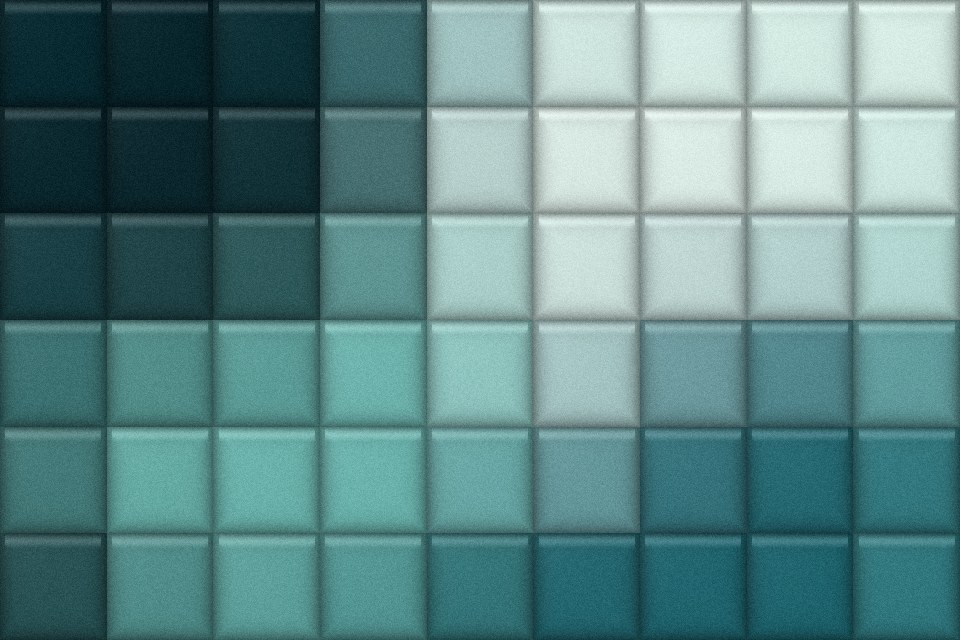
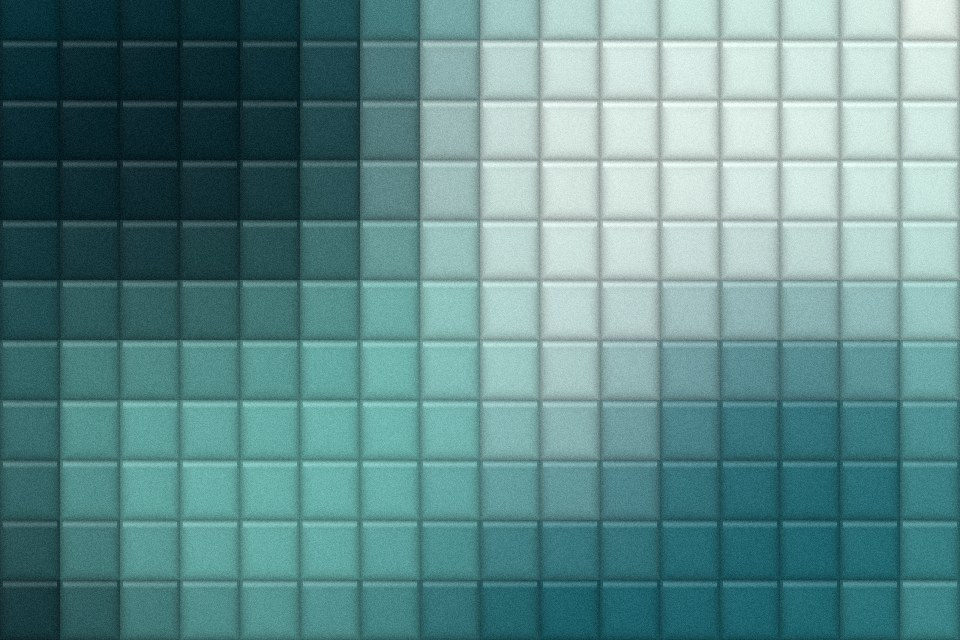
Effects library: 21 hand-built texture, light and glass effects with gallery
Each effect is a single-file live demo (WebGL 1 shader on a shared runtime,
or CSS/SVG), with parameters, cost, fallback, reduced-motion still frame,
a when-it-becomes-slop note and a screenshot. SKILL.md links the library
from the build step. Gallery detector result: slop 0, craft 88.

Claude-Session: https://claude.ai/code/session_01QRuffggixVJJAW2e1kutrK

diff --git a/skills/unslopslop/effects/caustics/demo.html b/skills/unslopslop/effects/caustics/demo.html
@@ -4,11 +4,12 @@
 <meta charset="utf-8">
 <meta name="viewport" content="width=device-width, initial-scale=1">
 <title>Caustics · effects library</title>
-<meta name="description" content="The bright web of light on the floor of a pool. Built from moving cell edges: wherever two cells meet the light gathers into a thin line. Two layers at different scales give depth.">
+<meta name="description" content="The bright web of light on the floor of a pool. Two warped noise fields are drawn as thin bright contour lines and the light pools where they cross. A second pattern builds the web from moving cell edges instead.">
 <!-- Generated by effects/build.mjs from effects/caustics/effect.js. Edit that file, then rebuild. -->
 <style>
   :root { --ground: #0e0e10; --panel: #17171a; --line: #2a2a2f; --ink: #ecebe6; --soft: #b9b8b1; --accent: #e7c46a; color-scheme: dark; }
   * { box-sizing: border-box; }
+  [hidden] { display: none !important; }
   html, body { margin: 0; height: 100%; background: var(--ground); color: var(--ink); font: 15px/1.55 system-ui, -apple-system, "Segoe UI", sans-serif; }
   .wrap { display: grid; grid-template-columns: minmax(0, 1fr) 340px; height: 100vh; }
   #stage { position: relative; overflow: hidden; background: #000; }
@@ -48,7 +49,7 @@
   <aside>
     <a class="back" href="../index.html">All effects</a>
     <h1>Caustics</h1>
-    <p class="sum">The bright web of light on the floor of a pool. Built from moving cell edges: wherever two cells meet the light gathers into a thin line. Two layers at different scales give depth.</p>
+    <p class="sum">The bright web of light on the floor of a pool. Two warped noise fields are drawn as thin bright contour lines and the light pools where they cross. A second pattern builds the web from moving cell edges instead.</p>
     <div id="controls"></div>
     <div class="group">
       <div class="ctl"><label for="src">Source</label>
@@ -284,14 +285,14 @@
 <script>
 FX.mount({
   title: 'Caustics',
-  summary: 'The bright web of light on the floor of a pool. Built from moving cell edges: wherever two cells meet the light gathers into a thin line. Two layers at different scales give depth.',
+  summary: 'The bright web of light on the floor of a pool. Two warped noise fields are drawn as thin bright contour lines and the light pools where they cross. A second pattern builds the web from moving cell edges instead.',
   cost: 'Two cell-noise layers, 9 neighbours each, per pixel. Medium. 30 fps cap; on phones one layer and a lower DPR are fine.',
   fallback: 'No WebGL: the CSS gradient. Reduced motion: one still frame, which still reads as water.',
   slop: 'Bright white lines at full strength behind content, or caustics on a brand with no water, light or glass story.',
   source: 'none', palette: 'seaglass', animated: true, fps: 30,
   params: [
     { id: 'scale', label: 'Cell scale', min: 2, max: 20, step: 0.1, value: 6 },
-    { id: 'width', label: 'Line width', min: 0.02, max: 0.4, step: 0.005, value: 0.2 },
+    { id: 'width', label: 'Line width', min: 0.02, max: 0.4, step: 0.005, value: 0.32 },
     { id: 'bright', label: 'Brightness', min: 0, max: 2, step: 0.01, value: 1.1 },
     { id: 'depth', label: 'Second layer', min: 0, max: 1, step: 0.01, value: 0.55 },
     { id: 'mode', label: 'Pattern', options: [['Curved webs', 0], ['Cell edges', 1]], value: 0 },

diff --git a/skills/unslopslop/effects/iridescence/demo.html b/skills/unslopslop/effects/iridescence/demo.html
@@ -9,6 +9,7 @@
 <style>
   :root { --ground: #0e0e10; --panel: #17171a; --line: #2a2a2f; --ink: #ecebe6; --soft: #b9b8b1; --accent: #e7c46a; color-scheme: dark; }
   * { box-sizing: border-box; }
+  [hidden] { display: none !important; }
   html, body { margin: 0; height: 100%; background: var(--ground); color: var(--ink); font: 15px/1.55 system-ui, -apple-system, "Segoe UI", sans-serif; }
   .wrap { display: grid; grid-template-columns: minmax(0, 1fr) 340px; height: 100vh; }
   #stage { position: relative; overflow: hidden; background: #000; }
@@ -290,7 +291,7 @@ FX.mount({
   slop: 'Full-strength rainbow over the whole page (y2k sticker), or on text. Keep it on one object or one band, mixed under 50 percent.',
   source: 'none', palette: 'graphite', animated: true, fps: 30,
   params: [
-    { id: 'bands', label: 'Band frequency', min: 0.5, max: 8, step: 0.05, value: 5.5 },
+    { id: 'bands', label: 'Band frequency', min: 0.5, max: 16, step: 0.05, value: 5 },
     { id: 'warp', label: 'Warp', min: 0, max: 3, step: 0.01, value: 0.9 },
     { id: 'scale', label: 'Scale', min: 0.3, max: 5, step: 0.05, value: 1.5 },
     { id: 'mixamt', label: 'Sheen over palette', min: 0, max: 1, step: 0.01, value: 0.6 },
@@ -302,7 +303,7 @@ FX.mount({
     '  float asp = u_res.x / u_res.y; vec2 p = v_uv * vec2(asp, 1.0) * u_scale; float t = u_time * u_speed * 0.2;',
     '  vec2 q = vec2(fbm(p + t, 4.0), fbm(p + 3.7 - t, 4.0));',
     '  float th = fbm(p + u_warp * q, 4.0);',
-    '  vec3 film = 0.78 + 0.22 * cos(2.0 * PI * (th * u_bands + vec3(0.0, 0.33, 0.67)));',
+    '  vec3 film = 0.78 + 0.22 * cos(2.0 * PI * (th * u_bands * 3.0 + vec3(0.0, 0.33, 0.67)));',
     '  vec3 base = ramp(0.55 + 0.45 * th);',
     '  vec3 c = mix(base, film * (0.6 + 0.6 * luma(base)), u_mixamt);',
     '  c += pow(max(0.0, 1.0 - abs(th - 0.55) * 6.0), 4.0) * 0.25;',   /* a thin specular ridge */

diff --git a/skills/unslopslop/effects/ascii-render/demo.html b/skills/unslopslop/effects/ascii-render/demo.html
@@ -9,6 +9,7 @@
 <style>
   :root { --ground: #0e0e10; --panel: #17171a; --line: #2a2a2f; --ink: #ecebe6; --soft: #b9b8b1; --accent: #e7c46a; color-scheme: dark; }
   * { box-sizing: border-box; }
+  [hidden] { display: none !important; }
   html, body { margin: 0; height: 100%; background: var(--ground); color: var(--ink); font: 15px/1.55 system-ui, -apple-system, "Segoe UI", sans-serif; }
   .wrap { display: grid; grid-template-columns: minmax(0, 1fr) 340px; height: 100vh; }
   #stage { position: relative; overflow: hidden; background: #000; }
@@ -305,7 +306,7 @@
       { id: 'style', label: 'Mark', options: [['Characters', 0], ['Blocks', 1], ['Dots', 2], ['Strokes', 3]], value: 0 },
       { id: 'colour', label: 'Colour', options: [['Source colours', 1], ['Palette ink', 0]], value: 1 },
       { id: 'gain', label: 'Exposure', min: 0.5, max: 3, step: 0.05, value: 1.5 },
-      { id: 'back', label: 'Background show-through', min: 0, max: 1, step: 0.01, value: 0.08 }
+      { id: 'back', label: 'Picture under the glyphs', min: 0, max: 1, step: 0.01, value: 0.45 }
     ],
     frag: [
       'void main() {',
@@ -320,8 +321,8 @@
       '  else if (u_style < 2.5) { vec2 g = (f - 0.5) * vec2(1.0, u_ratio); m = smoothstep(0.06, 0.0, length(g) - sqrt(l) * 0.48); }',
       '  else { m = step(abs(f.x - 0.5), l * 0.45) * step(0.08, f.y) * step(f.y, 0.92); }',
       '  vec3 ink = u_colour > 0.5 ? mix(s, vec3(1.0), 0.15) * 1.5 : u_c3;',
-      '  vec3 bg = mix(u_c0, s, u_back);',
-      '  gl_FragColor = vec4(mix(bg, ink, m), 1.0);',
+      '  vec3 bg = mix(u_c0, src(v_uv), u_back);',
+      '  gl_FragColor = vec4(bg + ink * m * (1.0 - u_back * 0.5), 1.0);',
       '}'
     ].join('\n')
   });

diff --git a/skills/unslopslop/effects/caustics/effect.js b/skills/unslopslop/effects/caustics/effect.js
@@ -1,13 +1,13 @@
 FX.mount({
   title: 'Caustics',
-  summary: 'The bright web of light on the floor of a pool. Built from moving cell edges: wherever two cells meet the light gathers into a thin line. Two layers at different scales give depth.',
+  summary: 'The bright web of light on the floor of a pool. Two warped noise fields are drawn as thin bright contour lines and the light pools where they cross. A second pattern builds the web from moving cell edges instead.',
   cost: 'Two cell-noise layers, 9 neighbours each, per pixel. Medium. 30 fps cap; on phones one layer and a lower DPR are fine.',
   fallback: 'No WebGL: the CSS gradient. Reduced motion: one still frame, which still reads as water.',
   slop: 'Bright white lines at full strength behind content, or caustics on a brand with no water, light or glass story.',
   source: 'none', palette: 'seaglass', animated: true, fps: 30,
   params: [
     { id: 'scale', label: 'Cell scale', min: 2, max: 20, step: 0.1, value: 6 },
-    { id: 'width', label: 'Line width', min: 0.02, max: 0.4, step: 0.005, value: 0.2 },
+    { id: 'width', label: 'Line width', min: 0.02, max: 0.4, step: 0.005, value: 0.32 },
     { id: 'bright', label: 'Brightness', min: 0, max: 2, step: 0.01, value: 1.1 },
     { id: 'depth', label: 'Second layer', min: 0, max: 1, step: 0.01, value: 0.55 },
     { id: 'mode', label: 'Pattern', options: [['Curved webs', 0], ['Cell edges', 1]], value: 0 },

diff --git a/skills/unslopslop/effects/glass-tiles/demo.html b/skills/unslopslop/effects/glass-tiles/demo.html
@@ -9,6 +9,7 @@
 <style>
   :root { --ground: #0e0e10; --panel: #17171a; --line: #2a2a2f; --ink: #ecebe6; --soft: #b9b8b1; --accent: #e7c46a; color-scheme: dark; }
   * { box-sizing: border-box; }
+  [hidden] { display: none !important; }
   html, body { margin: 0; height: 100%; background: var(--ground); color: var(--ink); font: 15px/1.55 system-ui, -apple-system, "Segoe UI", sans-serif; }
   .wrap { display: grid; grid-template-columns: minmax(0, 1fr) 340px; height: 100vh; }
   #stage { position: relative; overflow: hidden; background: #000; }
@@ -290,10 +291,10 @@ FX.mount({
   slop: 'Tiles under about 24 px (it turns into a screen-door), or used behind text.',
   source: 'gradient', palette: 'seaglass', animated: false,
   params: [
-    { id: 'cells', label: 'Tiles across', min: 3, max: 40, step: 1, value: 9 },
+    { id: 'cells', label: 'Tiles across', min: 3, max: 40, step: 1, value: 16 },
     { id: 'amount', label: 'Refraction', min: 0, max: 1, step: 0.01, value: 0.6 },
     { id: 'blur', label: 'Softness', min: 0, max: 1, step: 0.01, value: 0.35 },
-    { id: 'shadow', label: 'Seam shadow', min: 0, max: 1, step: 0.01, value: 0.4 },
+    { id: 'shadow', label: 'Seam shadow', min: 0, max: 1, step: 0.01, value: 0.3 },
     { id: 'highlight', label: 'Edge light', min: 0, max: 1, step: 0.01, value: 0.3 },
     { id: 'grain', label: 'Grain', min: 0, max: 0.3, step: 0.01, value: 0.05 }
   ],

diff --git a/skills/unslopslop/effects/iridescence/effect.js b/skills/unslopslop/effects/iridescence/effect.js
@@ -6,7 +6,7 @@ FX.mount({
   slop: 'Full-strength rainbow over the whole page (y2k sticker), or on text. Keep it on one object or one band, mixed under 50 percent.',
   source: 'none', palette: 'graphite', animated: true, fps: 30,
   params: [
-    { id: 'bands', label: 'Band frequency', min: 0.5, max: 8, step: 0.05, value: 5.5 },
+    { id: 'bands', label: 'Band frequency', min: 0.5, max: 16, step: 0.05, value: 5 },
     { id: 'warp', label: 'Warp', min: 0, max: 3, step: 0.01, value: 0.9 },
     { id: 'scale', label: 'Scale', min: 0.3, max: 5, step: 0.05, value: 1.5 },
     { id: 'mixamt', label: 'Sheen over palette', min: 0, max: 1, step: 0.01, value: 0.6 },
@@ -18,7 +18,7 @@ FX.mount({
     '  float asp = u_res.x / u_res.y; vec2 p = v_uv * vec2(asp, 1.0) * u_scale; float t = u_time * u_speed * 0.2;',
     '  vec2 q = vec2(fbm(p + t, 4.0), fbm(p + 3.7 - t, 4.0));',
     '  float th = fbm(p + u_warp * q, 4.0);',
-    '  vec3 film = 0.78 + 0.22 * cos(2.0 * PI * (th * u_bands + vec3(0.0, 0.33, 0.67)));',
+    '  vec3 film = 0.78 + 0.22 * cos(2.0 * PI * (th * u_bands * 3.0 + vec3(0.0, 0.33, 0.67)));',
     '  vec3 base = ramp(0.55 + 0.45 * th);',
     '  vec3 c = mix(base, film * (0.6 + 0.6 * luma(base)), u_mixamt);',
     '  c += pow(max(0.0, 1.0 - abs(th - 0.55) * 6.0), 4.0) * 0.25;',   /* a thin specular ridge */

diff --git a/skills/unslopslop/effects/ascii-render/effect.js b/skills/unslopslop/effects/ascii-render/effect.js
@@ -21,7 +21,7 @@
       { id: 'style', label: 'Mark', options: [['Characters', 0], ['Blocks', 1], ['Dots', 2], ['Strokes', 3]], value: 0 },
       { id: 'colour', label: 'Colour', options: [['Source colours', 1], ['Palette ink', 0]], value: 1 },
       { id: 'gain', label: 'Exposure', min: 0.5, max: 3, step: 0.05, value: 1.5 },
-      { id: 'back', label: 'Background show-through', min: 0, max: 1, step: 0.01, value: 0.08 }
+      { id: 'back', label: 'Picture under the glyphs', min: 0, max: 1, step: 0.01, value: 0.45 }
     ],
     frag: [
       'void main() {',
@@ -36,8 +36,8 @@
       '  else if (u_style < 2.5) { vec2 g = (f - 0.5) * vec2(1.0, u_ratio); m = smoothstep(0.06, 0.0, length(g) - sqrt(l) * 0.48); }',
       '  else { m = step(abs(f.x - 0.5), l * 0.45) * step(0.08, f.y) * step(f.y, 0.92); }',
       '  vec3 ink = u_colour > 0.5 ? mix(s, vec3(1.0), 0.15) * 1.5 : u_c3;',
-      '  vec3 bg = mix(u_c0, s, u_back);',
-      '  gl_FragColor = vec4(mix(bg, ink, m), 1.0);',
+      '  vec3 bg = mix(u_c0, src(v_uv), u_back);',
+      '  gl_FragColor = vec4(bg + ink * m * (1.0 - u_back * 0.5), 1.0);',
       '}'
     ].join('\n')
   });

diff --git a/skills/unslopslop/effects/ripple-lens/demo.html b/skills/unslopslop/effects/ripple-lens/demo.html
@@ -9,6 +9,7 @@
 <style>
   :root { --ground: #0e0e10; --panel: #17171a; --line: #2a2a2f; --ink: #ecebe6; --soft: #b9b8b1; --accent: #e7c46a; color-scheme: dark; }
   * { box-sizing: border-box; }
+  [hidden] { display: none !important; }
   html, body { margin: 0; height: 100%; background: var(--ground); color: var(--ink); font: 15px/1.55 system-ui, -apple-system, "Segoe UI", sans-serif; }
   .wrap { display: grid; grid-template-columns: minmax(0, 1fr) 340px; height: 100vh; }
   #stage { position: relative; overflow: hidden; background: #000; }
@@ -291,7 +292,7 @@ FX.mount({
   source: 'scene', palette: 'seaglass', animated: true, fps: 30,
   params: [
     { id: 'amount', label: 'Displacement', min: 0, max: 1, step: 0.01, value: 0.45 },
-    { id: 'freq', label: 'Rings', min: 2, max: 60, step: 1, value: 18 },
+    { id: 'freq', label: 'Rings', min: 2, max: 60, step: 1, value: 9 },
     { id: 'falloff', label: 'Falloff', min: 0, max: 1, step: 0.01, value: 0.55 },
     { id: 'speed', label: 'Speed', min: 0, max: 2, step: 0.01, value: 0.4 },
     { id: 'ox', label: 'Origin X', min: 0, max: 1, step: 0.01, value: 0.5 },

diff --git a/skills/unslopslop/effects/glass-tiles/effect.js b/skills/unslopslop/effects/glass-tiles/effect.js
@@ -6,10 +6,10 @@ FX.mount({
   slop: 'Tiles under about 24 px (it turns into a screen-door), or used behind text.',
   source: 'gradient', palette: 'seaglass', animated: false,
   params: [
-    { id: 'cells', label: 'Tiles across', min: 3, max: 40, step: 1, value: 9 },
+    { id: 'cells', label: 'Tiles across', min: 3, max: 40, step: 1, value: 16 },
     { id: 'amount', label: 'Refraction', min: 0, max: 1, step: 0.01, value: 0.6 },
     { id: 'blur', label: 'Softness', min: 0, max: 1, step: 0.01, value: 0.35 },
-    { id: 'shadow', label: 'Seam shadow', min: 0, max: 1, step: 0.01, value: 0.4 },
+    { id: 'shadow', label: 'Seam shadow', min: 0, max: 1, step: 0.01, value: 0.3 },
     { id: 'highlight', label: 'Edge light', min: 0, max: 1, step: 0.01, value: 0.3 },
     { id: 'grain', label: 'Grain', min: 0, max: 0.3, step: 0.01, value: 0.05 }
   ],

diff --git a/skills/unslopslop/effects/ripple-lens/effect.js b/skills/unslopslop/effects/ripple-lens/effect.js
@@ -7,7 +7,7 @@ FX.mount({
   source: 'scene', palette: 'seaglass', animated: true, fps: 30,
   params: [
     { id: 'amount', label: 'Displacement', min: 0, max: 1, step: 0.01, value: 0.45 },
-    { id: 'freq', label: 'Rings', min: 2, max: 60, step: 1, value: 18 },
+    { id: 'freq', label: 'Rings', min: 2, max: 60, step: 1, value: 9 },
     { id: 'falloff', label: 'Falloff', min: 0, max: 1, step: 0.01, value: 0.55 },
     { id: 'speed', label: 'Speed', min: 0, max: 2, step: 0.01, value: 0.4 },
     { id: 'ox', label: 'Origin X', min: 0, max: 1, step: 0.01, value: 0.5 },

diff --git a/skills/unslopslop/effects/film-grain/demo.html b/skills/unslopslop/effects/film-grain/demo.html
@@ -9,6 +9,7 @@
 <style>
   :root { --ground: #0e0e10; --panel: #17171a; --line: #2a2a2f; --ink: #ecebe6; --soft: #b9b8b1; --accent: #e7c46a; color-scheme: dark; }
   * { box-sizing: border-box; }
+  [hidden] { display: none !important; }
   html, body { margin: 0; height: 100%; background: var(--ground); color: var(--ink); font: 15px/1.55 system-ui, -apple-system, "Segoe UI", sans-serif; }
   .wrap { display: grid; grid-template-columns: minmax(0, 1fr) 340px; height: 100vh; }
   #stage { position: relative; overflow: hidden; background: #000; }

diff --git a/skills/unslopslop/effects/frosted-glass/demo.html b/skills/unslopslop/effects/frosted-glass/demo.html
@@ -9,6 +9,7 @@
 <style>
   :root { --ground: #0e0e10; --panel: #17171a; --line: #2a2a2f; --ink: #ecebe6; --soft: #b9b8b1; --accent: #e7c46a; color-scheme: dark; }
   * { box-sizing: border-box; }
+  [hidden] { display: none !important; }
   html, body { margin: 0; height: 100%; background: var(--ground); color: var(--ink); font: 15px/1.55 system-ui, -apple-system, "Segoe UI", sans-serif; }
   .wrap { display: grid; grid-template-columns: minmax(0, 1fr) 340px; height: 100vh; }
   #stage { position: relative; overflow: hidden; background: #000; }
